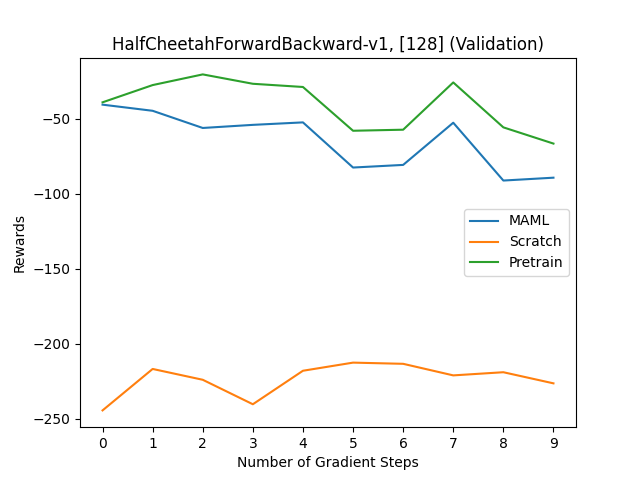
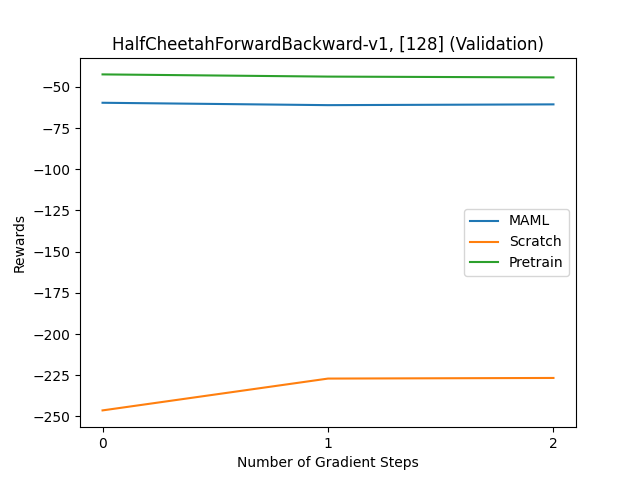
graphs

diff --git a/plot.py b/plot.py
@@ -60,9 +60,9 @@ def plotGraphsHidden(env, grad_steps=3, show=False):
 
 if __name__ == "__main__":
     grad_steps = 3
-    # plotGraphs("HalfCheetahForwardBackward-v1", [128], grad_steps=grad_steps,  show=True)
-    # plotGraphs("HalfCheetahForwardBackward-v1", [128,128], grad_steps=grad_steps,  show=True)
-    # plotGraphs("HalfCheetahForwardBackward-v1", [128,128, 128], grad_steps=grad_steps,  show=True)
+    plotGraphs("HalfCheetahForwardBackward-v1", [128], grad_steps=grad_steps,  show=True)
+    plotGraphs("HalfCheetahForwardBackward-v1", [128,128], grad_steps=grad_steps,  show=True)
+    plotGraphs("HalfCheetahForwardBackward-v1", [128,128, 128], grad_steps=grad_steps,  show=True)
     
     plotGraphs("HumanoidForwardBackward-v1", [128], grad_steps=grad_steps, show=True)
     plotGraphs("HumanoidForwardBackward-v1", [128,128], grad_steps=grad_steps, show=True)

diff --git a/main.py b/main.py
@@ -57,22 +57,18 @@ if __name__ == '__main__':
     # all envs have continuous action spaces
     envs = [
         # john desktop
-        # 'HalfCheetahForwardBackward-v1', # done
-        # 'HumanoidDirection-v1'
+        'HalfCheetahForwardBackward-v1', # done
         
         # john laptop
-        'AntForwardBackward-v1', # done
-        'HumanoidForwardBackward-v1' # done
+        # 'AntForwardBackward-v1', # done
+        # 'HumanoidForwardBackward-v1' # done
 
-        # arjun laptop
-        # 'AntDirection-v1',
-        # 'Particles2D-v1'
     ]
 
     # model architectures
     hiddens = [
-        [128],
-        [128,128],
+        # [128],
+        # [128,128],
         [128,128,128]
     ]
 
